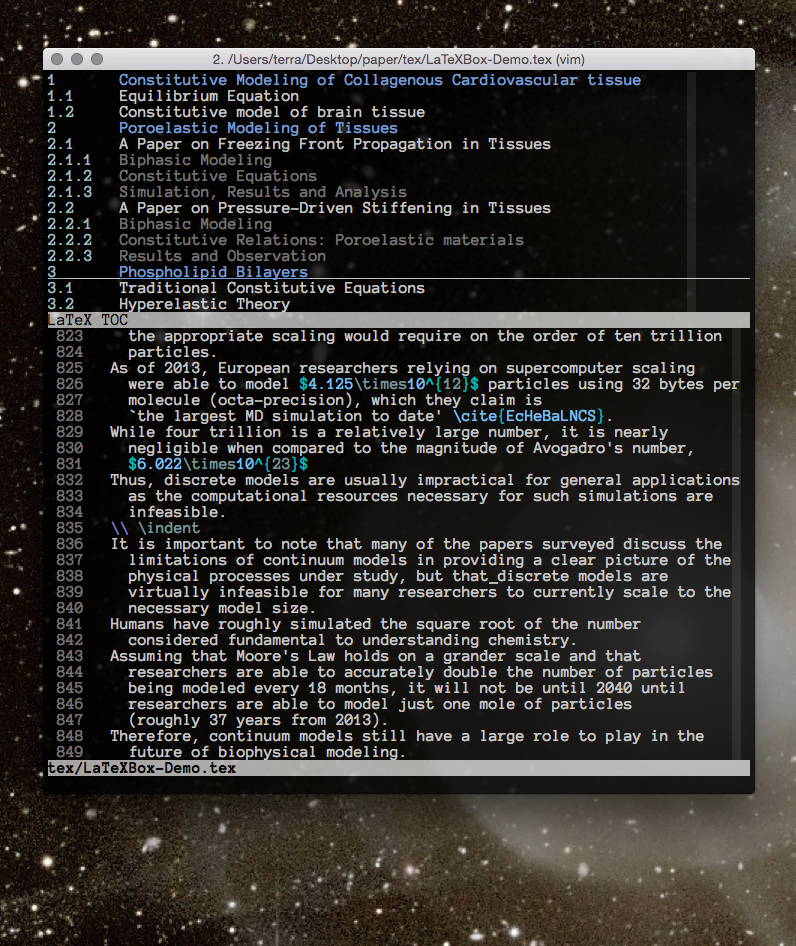
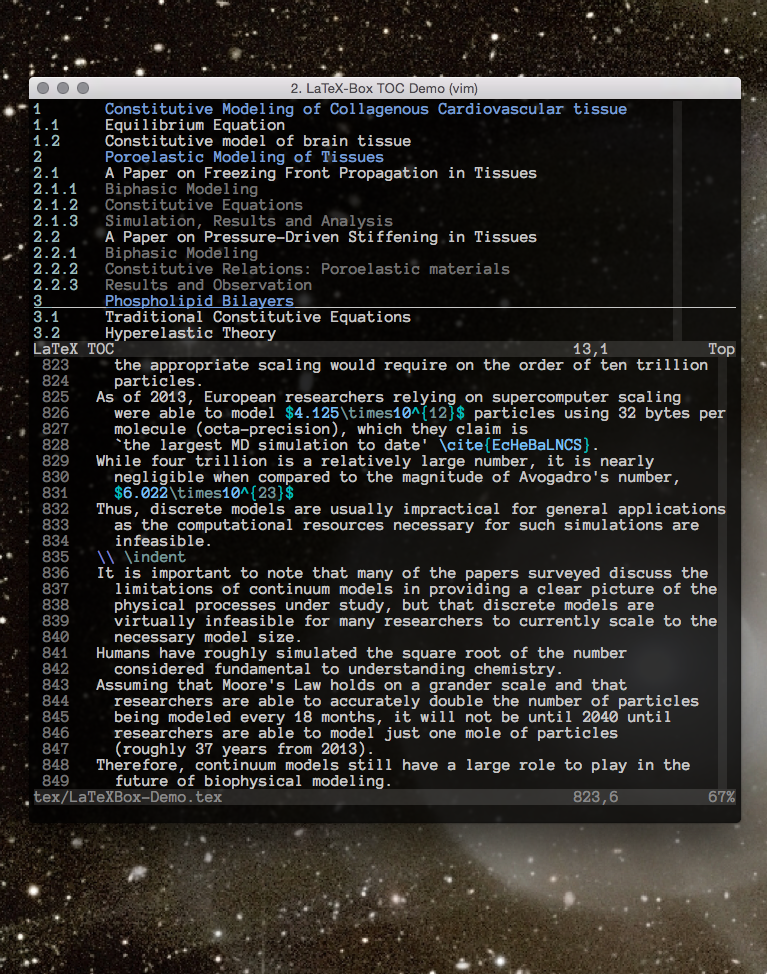
img change

diff --git a/README.md b/README.md
@@ -4,7 +4,7 @@
 ## This plugin provides:
 - Background compilation using latexmk.
 - Completion for commands, environments, labels, bibtex entries, and inline maths.
-- A simple table of contents.
+- A simple table of contents improving the navigation of large files. 
 - Smart indentation.
 - Highlight matching \begin/\end and \left\right pairs.
 - Motion between \begin/\end and \left\right pairs with the % key.
@@ -71,6 +71,6 @@ This is mirrored on
 
 ## Example Table of Contents
 
-![LaTeX-BoX TOC](https://raw.github.com/hellabyte/LaTeX-Box/master/.assets/LaTeX-BoX-TOC-demo-more-background.png)
+![LaTeX-BoX TOC](https://raw.github.com/hellabyte/LaTeX-Box/master/.assets/LaTeX-BoX-TOC-demo-background.png)
 
 
